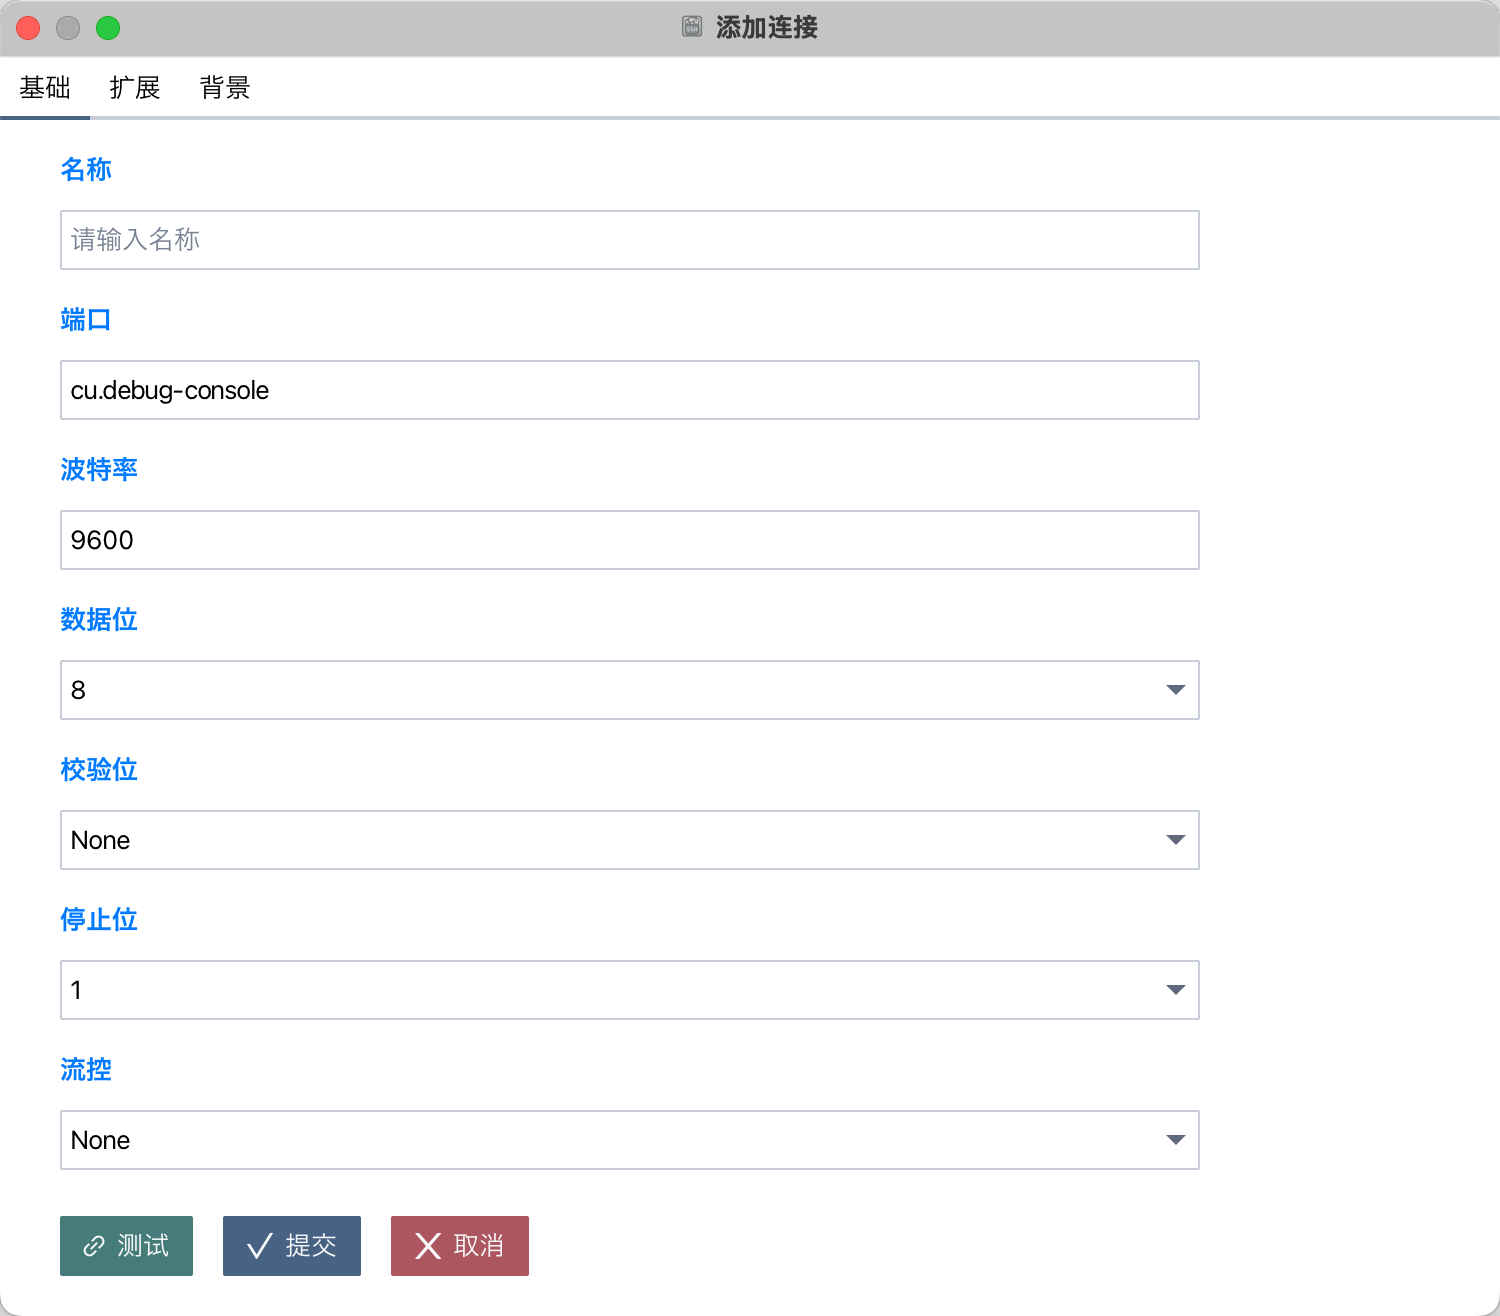
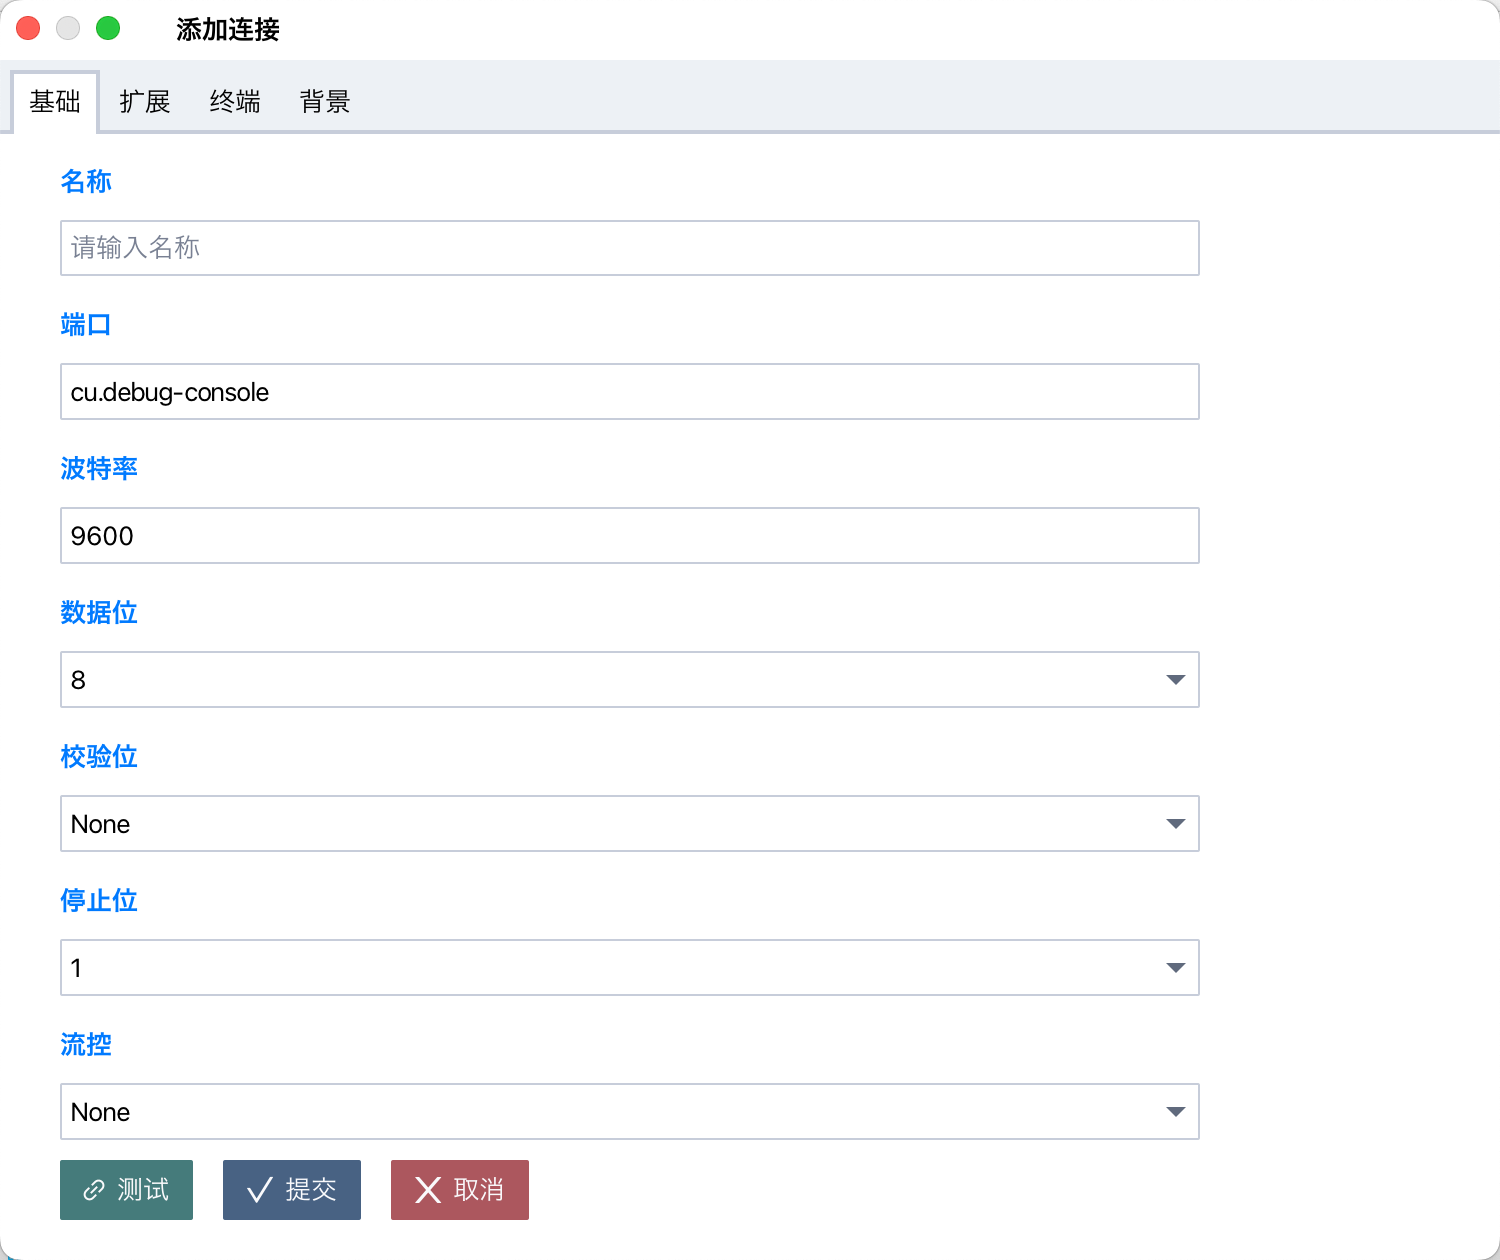
update: 更新SSH、串口截图

diff --git a/README.md b/README.md
@@ -67,9 +67,9 @@ EasyShell 是一个功能强大、现代化、跨平台的多协议客户端。
 ![ssh10.png](resource/screenshot/ssh10.png)
 ![ssh11.png](resource/screenshot/ssh11.png)
 ![ssh12.png](resource/screenshot/ssh12.png)
-![ssh12.png](resource/screenshot/ssh14.png)
-![ssh13.png](resource/screenshot/ssh15.png)
-![ssh14.png](resource/screenshot/ssh15.png)
+![ssh13.png](resource/screenshot/ssh13.png)
+![ssh14.png](resource/screenshot/ssh14.png)
+![ssh15.png](resource/screenshot/ssh15.png)
 
 ### 分屏
 ![fenping1.png](resource/screenshot/fenping1.png)
